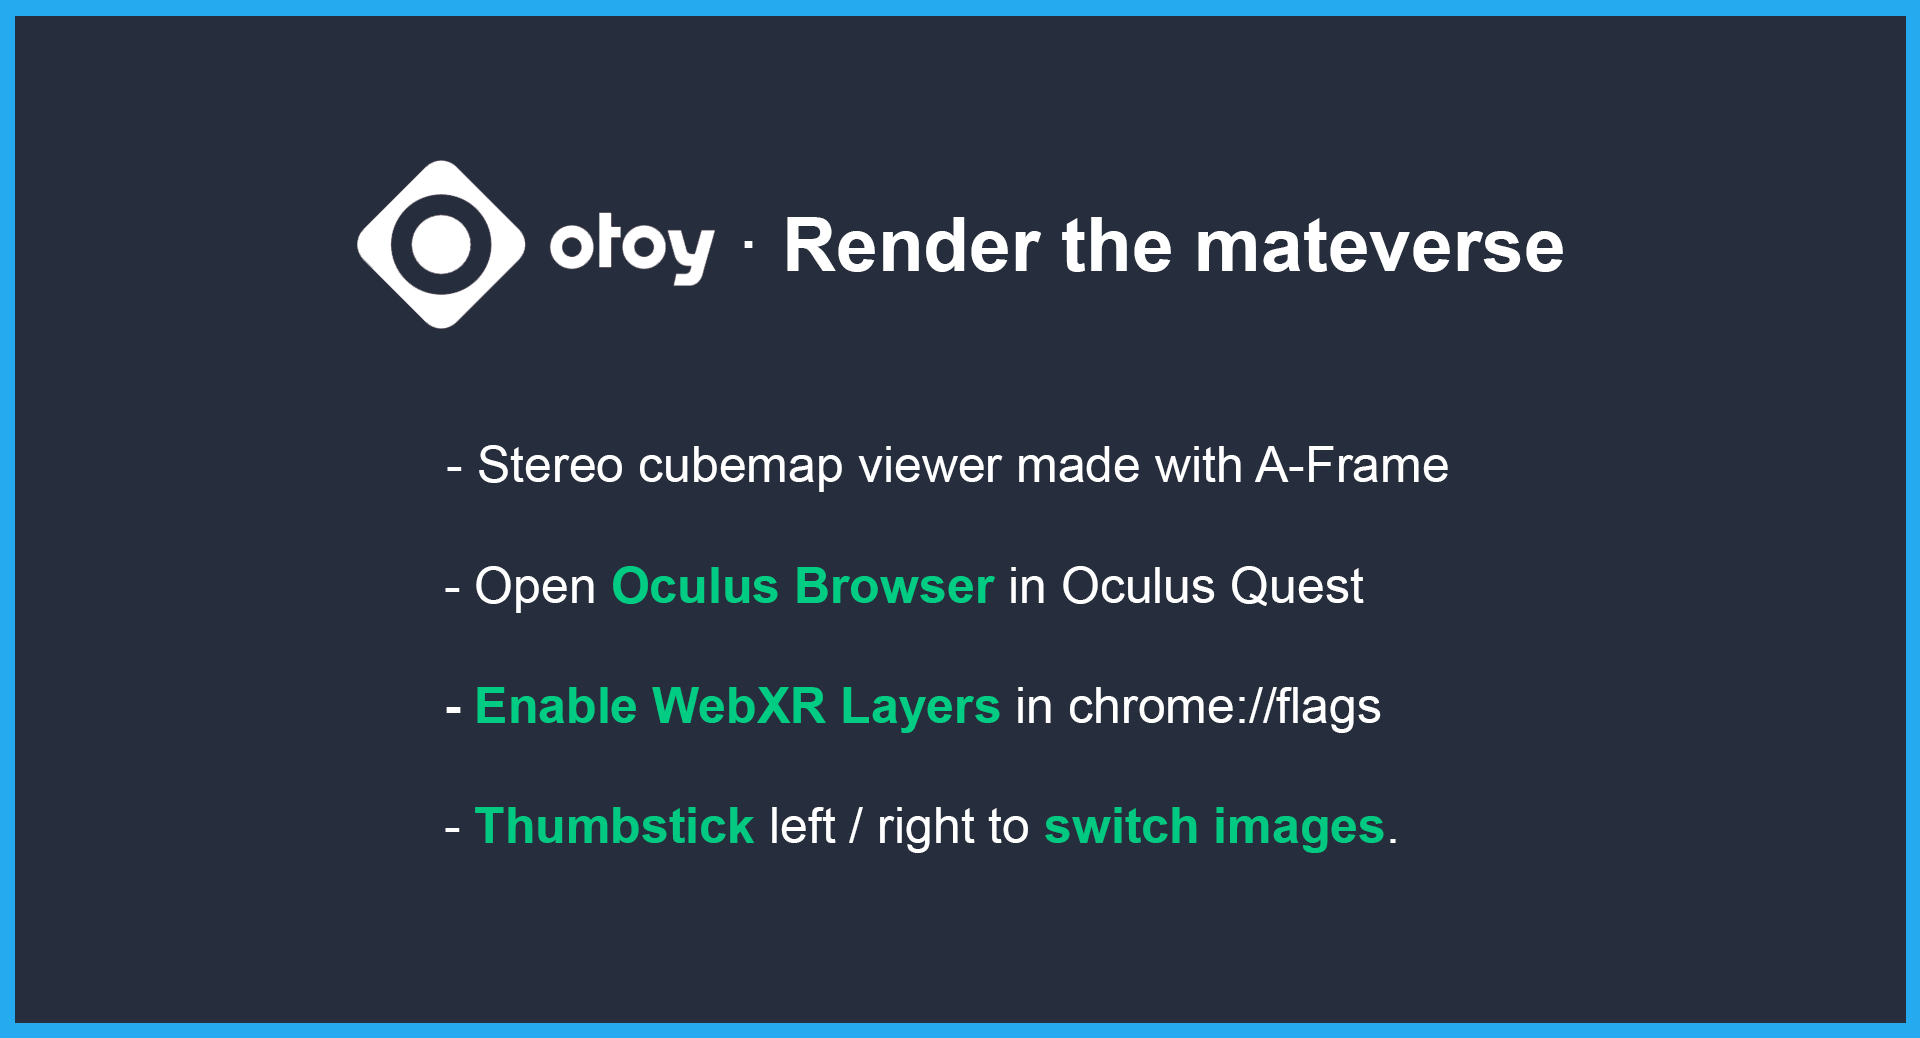
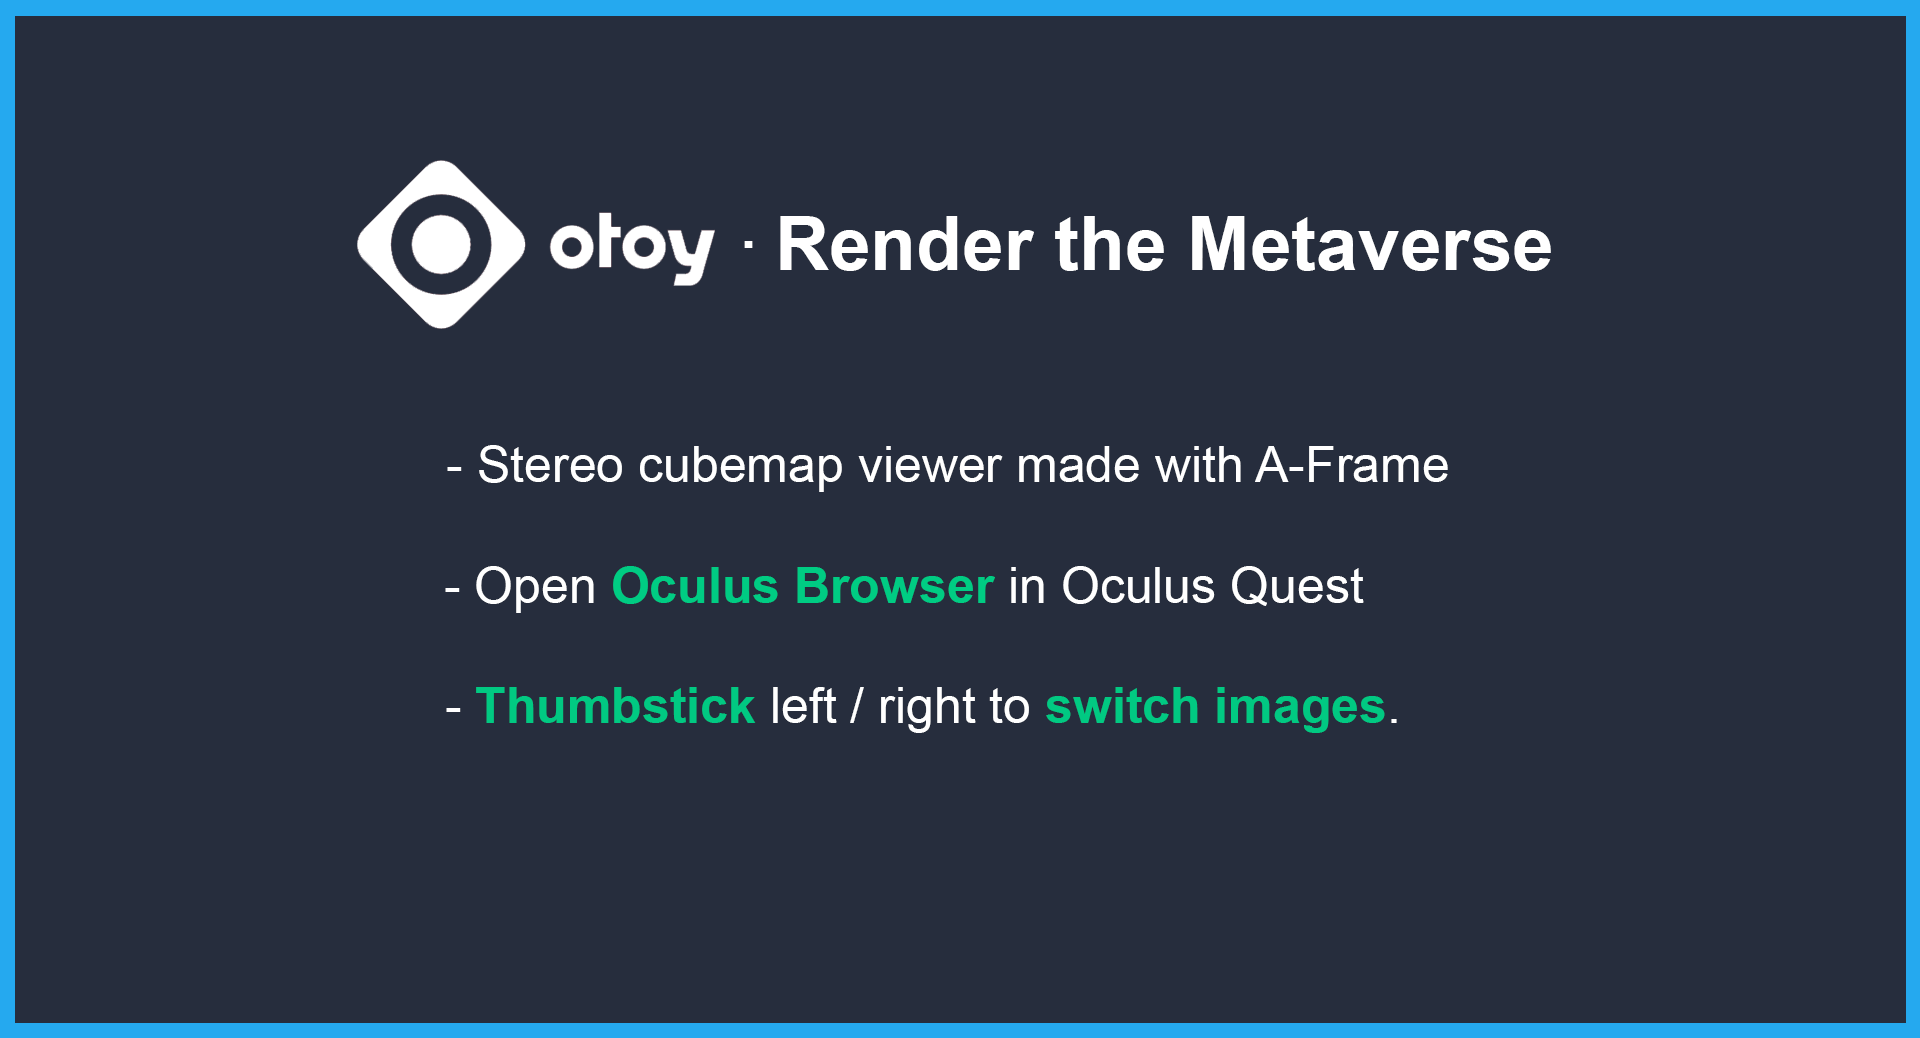
Add artis credits / fix typos

Changed region(s): [[0.25, 0.6474, 0.7188, 0.7091], [0.25, 0.7707, 0.7188, 0.8324], [0.4062, 0.185, 0.8125, 0.2775]]

diff --git a/info-message.js b/info-message.js
@@ -1,0 +1,112 @@
+/* global AFRAME */
+AFRAME.registerComponent('info-message', {
+  schema: {
+    htmlSrc: {type: 'selector'},
+    startOpened: {default: false},
+    width: {default: 400},
+    height: {default: 320}
+  },
+  init: function () {
+    var sceneEl = this.el.sceneEl;
+    var messageEl = this.messageEl = document.createElement('div');
+    var startOpened = this.data.startOpened;
+    this.toggleInfoMessage = this.toggleInfoMessage.bind(this);
+
+    messageEl.classList.add('a-info-message');
+    messageEl.setAttribute('aframe-injected', '');
+
+    var closeButtonEl = this.closeButtonEl = document.createElement('button');
+    closeButtonEl.innerHTML = 'X';
+    closeButtonEl.classList.add('a-close-button-info');
+    closeButtonEl.onclick = this.toggleInfoMessage;
+
+    this.createInfoButton(this.toggleInfoMessage);
+
+    this.addStyles();
+    sceneEl.appendChild(messageEl);
+
+    this.messageEl.style.display = startOpened ? '' : 'none';
+    this.infoButton.style.display = startOpened ? 'none' : '';
+    messageEl.addEventListener('click', function (evt) { evt.stopPropagation(); });
+  },
+
+  update: function () {
+    var messageEl = this.messageEl;
+    messageEl.innerHTML = this.data.htmlSrc.data;
+    messageEl.appendChild(this.closeButtonEl);
+  },
+
+  addStyles: function () {
+    var css =
+      '.a-info-message{border-radius: 10px; position: absolute; width: ' + this.data.width + 'px;' +
+      'height: ' + this.data.height + 'px; background-color: white; border: 3px solid rgba(0,0,0,0.65);' +
+      'bottom: 22px; left: 22px; color: rgb(51, 51, 51); padding: 20px 15px 0 15px;' +
+      'font-size: 11pt; line-height: 20pt; z-index: 9999}' +
+
+      '.a-info-message a{border-bottom: 1px solid rgba(53,196,232,.15); color: #1497b8;' +
+      'position: relative; text-decoration: none; transition: .05s ease;}' +
+
+      '@media only screen and (min-width: 1200px) {' +
+      '.a-info-message {font-size: 12pt}}' +
+
+      '@media only screen and (max-width: 600px) {' +
+      '.a-info-message {left: 20px; right: 20px; bottom: 60px; width: auto}}' +
+
+      '@media only screen and (max-height: 600px) {' +
+      '.a-info-message {left: 20px; bottom: 20px; height: 250px}}' +
+
+      '.a-close-button-info{width: 25px; height: 25px; padding: 0;' +
+      'top: 10px; right: 10px; position: absolute; color: white;' +
+      'font-size: 12px; line-height: 12px; border: none; background-color: #ef2d5e;' +
+      'border-radius: 5px; font-weight: medium}' +
+
+      '.a-close-button-info:hover{background-color: #b32146; color: white}' +
+      '.a-info-message-container {position: absolute; left: 100px; bottom: 20px;}' +
+      '.a-info-message-button {background: rgba(0, 0, 0, 0.35) ' + this.infoMessageButtonDataURI + ' 50% 50% no-repeat;}' +
+      '.a-info-message-button {background-size: 92% 90%; border: 0; bottom: 0; cursor: pointer; min-width: 78px; min-height: 34px; padding-right: 0; padding-top: 0; position: absolute; right: 0; transition: background-color .05s ease; -webkit-transition: background-color .05s ease; z-index: 9999; border-radius: 8px; touch-action: manipulation;}' +
+      '.a-info-message-button:active, .a-info-message-button:hover {background-color: #ef2d5e;}';
+    var style = document.createElement('style');
+
+    if (style.styleSheet) {
+      style.styleSheet.cssText = css;
+    } else {
+      style.appendChild(document.createTextNode(css));
+    }
+
+    document.getElementsByTagName('head')[0].appendChild(style);
+  },
+
+  toggleInfoMessage: function () {
+    var display = this.messageEl.style.display;
+    this.infoButton.style.display = display;
+    display = display === 'none' ? '' : 'none';
+    this.messageEl.style.display = display;
+    if (display === 'none') {
+      this.el.emit('infomessageclosed');
+    } else {
+      this.el.emit('infomessageopened');
+    }
+  },
+
+  createInfoButton: function (onClick) {
+    var infoButton;
+    var wrapper;
+
+    // Create elements.
+    wrapper = document.createElement('div');
+    wrapper.classList.add('a-info-message-container');
+    this.infoButton = infoButton = document.createElement('button');
+    infoButton.className = 'a-info-message-button';
+    infoButton.setAttribute('title', 'Information about this experience');
+    // Insert elements.
+    wrapper.appendChild(infoButton);
+    infoButton.addEventListener('click', function (evt) {
+      onClick();
+      evt.stopPropagation();
+    });
+    this.el.sceneEl.appendChild(wrapper);
+  },
+
[1 lines of base64/hex data omitted]
+
+});

diff --git a/message.html b/message.html
@@ -1,0 +1,29 @@
+<p>This demo relies on the <a href="https://immersive-web.github.io/layers/">WebXR layers API</a>. The standard is still a proposal and support might vary accross browsers.</a></p>
+
+<p>
+Featuring the following amazing pieces and artists:</br>
+- <a href="https://render.otoy.com/vr_gallery.php?sortBy=date_z&searchTerm=imagine&showMonth=all&show_wip=0">Imagined Reality</a> by <a href="https://render.otoy.com/forum/memberlist.php?mode=viewprofile&u=226897">california_ben</a><br>
+- <a href="https://render.otoy.com/vr_gallery.php?sortBy=date_z&searchTerm=realization&showMonth=all&show_wip=0">Realization</a> by <a href="https://render.otoy.com/forum/memberlist.php?mode=viewprofile&u=150294
+">lordsme</a><br>
+- <a href="https://render.otoy.com/vr_gallery.php?sortBy=date_z&searchTerm=raised%20into%20oblivion&showMonth=all&show_wip=0">Raised into Oblivion</a> by <a href="https://render.otoy.com/forum/memberlist.php?mode=viewprofile&u=200946">martincarlson</a><br>
+- <a href="https://render.otoy.com/vr_gallery.php?sortBy=date_z&searchTerm=began&showMonth=all&show_wip=0">The Day when it began</a> by <a href="https://render.otoy.com/forum/memberlist.php?mode=viewprofile&u=175018">Chritz</a><br>
+- <a href="https://render.otoy.com/vr_gallery.php?sortBy=date_z&searchTerm=deck&showMonth=all&show_wip=0">Deck 75</a> by <a href="https://render.otoy.com/forum/memberlist.php?mode=viewprofile&u=175018">Chritz</a><br>
+- <a href="https://render.otoy.com/vr_gallery.php?sortBy=date_z&searchTerm=exploring&showMonth=all&show_wip=0">Exploring the Metaverse</a> by <a href="https://render.otoy.com/forum/memberlist.php?mode=viewprofile&u=220911">spark31</a><br>
+- <a href="https://render.otoy.com/vr_gallery.php?sortBy=date_z&searchTerm=learning%20anatomy&showMonth=all&show_wip=0
+">Learning Anatomy</a> by <a href="https://render.otoy.com/forum/memberlist.php?mode=viewprofile&u=213687">simmono</a><br>
+- <a href="https://render.otoy.com/vr_gallery.php?sortBy=date_z&searchTerm=mini%20metaverse&showMonth=all&show_wip=0"
+>Mini Metaverse</a> by <a href="https://render.otoy.com/forum/memberlist.php?mode=viewprofile&u=204537">javierleon</a><br>
+- <a href="https://render.otoy.com/vr_gallery.php?sortBy=date_z&searchTerm=toy%20story&showMonth=all&show_wip=0"
+>Toy Story</a> by <a href="https://render.otoy.com/forum/memberlist.php?mode=viewprofile&u=67133">ramone163</a><br>
+- <a href="https://render.otoy.com/vr_gallery.php?sortBy=date_z&searchTerm=losttime&showMonth=all&show_wip=0"
+>Lost Time</a> by <a href="https://render.otoy.com/forum/memberlist.php?mode=viewprofile&u=228432">pestrun</a><br>
+- <a href="https://render.otoy.com/vr_gallery.php?sortBy=date_z&searchTerm=momade&showMonth=all&show_wip=0"
+>Mashup between clouds</a> by <a href="https://render.otoy.com/forum/memberlist.php?mode=viewprofile&u=165330">momade</a><br>
+- <a href="https://render.otoy.com/vr_gallery.php?sortBy=date_z&searchTerm=pursuit&showMonth=all&show_wip=0"
+>The pursuit of the Metaverse</a> by <a href="https://render.otoy.com/forum/memberlist.php?mode=viewprofile&u=220911">spark31</a><br>
+- <a href="https://render.otoy.com/vr_gallery.php?sortBy=date_z&searchTerm=living%20with%20nature&showMonth=all&show_wip=0">Living with Nature</a> by <a href="https://render.otoy.com/forum/memberlist.php?mode=viewprofile&u=217991">leobartz</a><br>
+- <a href="https://render.otoy.com/vr_gallery.php?sortBy=date_z&searchTerm=two%20sides&showMonth=all&show_wip=0">Two Sides</a> by <a href="https://render.otoy.com/forum/memberlist.php?mode=viewprofile&u=224253">VISUALIMPRESSION</a><br>
+- <a href=" https://render.otoy.com/vr_gallery.php?sortBy=date_z&searchTerm=forest%20house&showMonth=all&show_wip=0
+">Forest House</a> by <a href="https://render.otoy.com/forum/memberlist.php?mode=viewprofile&u=202919">pasmangiu</a><br>
+- <a href="https://render.otoy.com/vr_gallery.php?sortBy=date_z&searchTerm=neon%20buddha&showMonth=all&show_wip=0">Neon Buddha</a> by <a href="https://render.otoy.com/vr_gallery.php?sortBy=date_z&searchTerm=neon%20buddha&showMonth=all&show_wip=0">ramone163</a><br>
+- <a href="https://render.otoy.com/vr_gallery.php?sortBy=date_z&searchTerm=flat&showMonth=all&show_wip=0">Small Flat in Metaverse</a> by <a href="https://render.otoy.com/forum/memberlist.php?mode=viewprofile&u=6001">glimpse</a><br>

diff --git a/index.html b/index.html
@@ -5,6 +5,7 @@
     <title>Render the Metaverse • A-Frame</title>
     <meta name="description" content="Render the Metaverse • A-Frame">
     <script src="aframe-master.min.js"></script>
+    <script src="info-message.js"></script>
     <script src="https://unpkg.com/aframe-environment-component@1.1.0/dist/aframe-environment-component.min.js"></script>
     <script src="cubemap-switcher.js"></script>
     <!-- Global site tag (gtag.js) - Google Analytics -->
@@ -19,10 +20,11 @@
     </script>
   </head>
   <body>
-    <a-scene environment>
+    <a-scene environment info-message="htmlSrc: #messageText; startOpened: true; width: 300; height: 620">
       <a-assets timeout="90000">
        <img id="imaginerealitycubemap" crossOrigin="anonymous" src="https://vr1.otoycdn.net/vr/pano/23036_7E20F856-0889-4C02-8029-78A4D02F5834_pano.png">
        <img id="panel" crossOrigin="anonymous" src="panel.png">
+       <a-asset-item id="messageText" src="message.html"></a-asset-item>
       </a-assets>
       <a-entity
         camera
